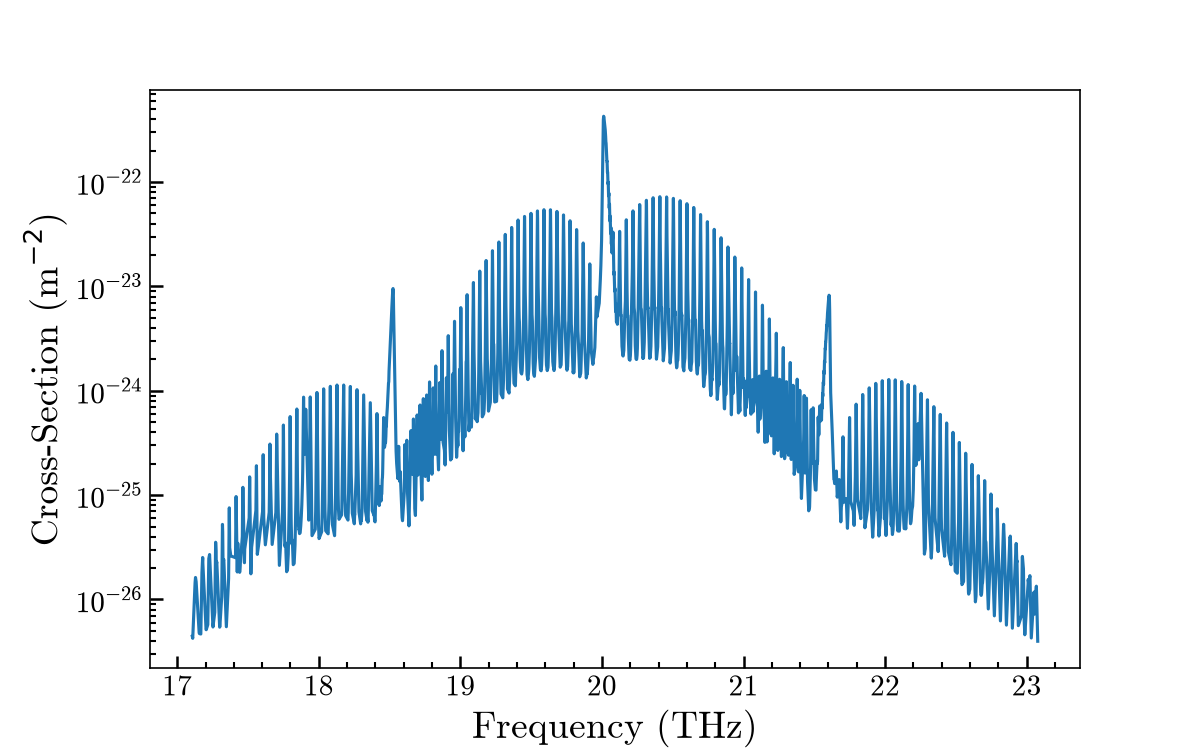
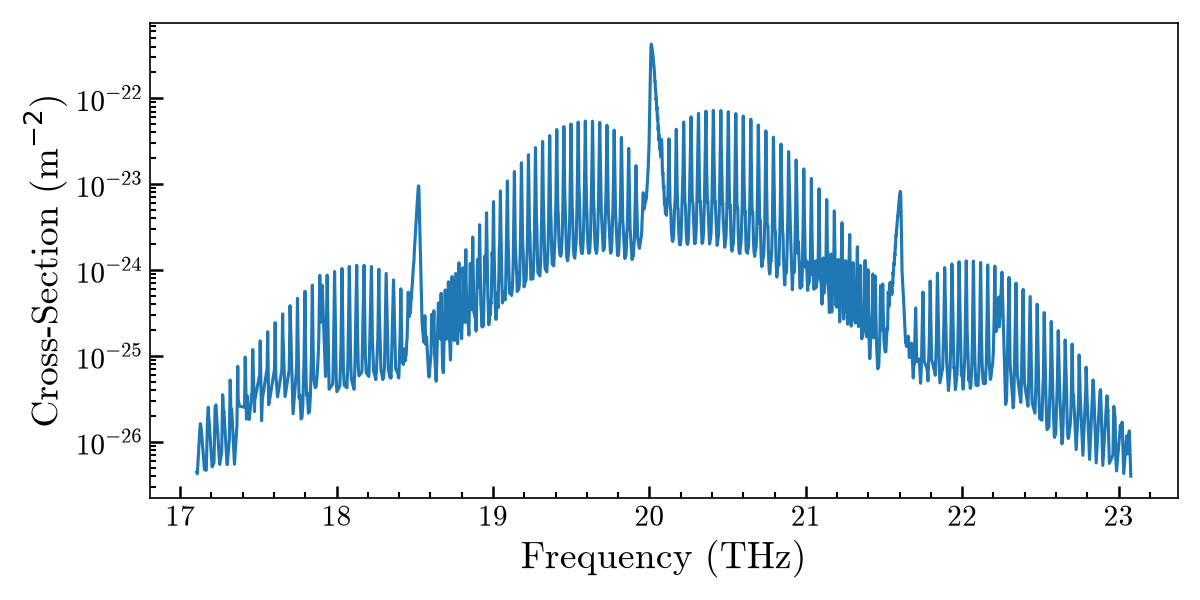
yolo

diff --git a/src/CO2 Spectra.py b/src/CO2 Spectra.py
@@ -66,7 +66,7 @@ import matplotlib as mpl
 import matplotlib.font_manager
 from IPython.core.display import HTML
 mpl.rcParams['font.family'] = 'cmr10'
-fig, ax = plt.subplots(figsize=(8, 5), dpi=150)
+fig, ax = plt.subplots(figsize=(8, 4), dpi=150)
 
 
 length_ = len(absorption_frequencies)
@@ -87,6 +87,7 @@ ax.tick_params(axis="both", which="minor", direction="in", length=3, width=1)
 ax.minorticks_on()
 ax.set_yscale('log')
 #ax.grid(True, which="major", linestyle="--", alpha=0.5)
+fig.tight_layout()
 plt.savefig("co2 cross section v1.png", dpi=150)
 plt.show()
 
